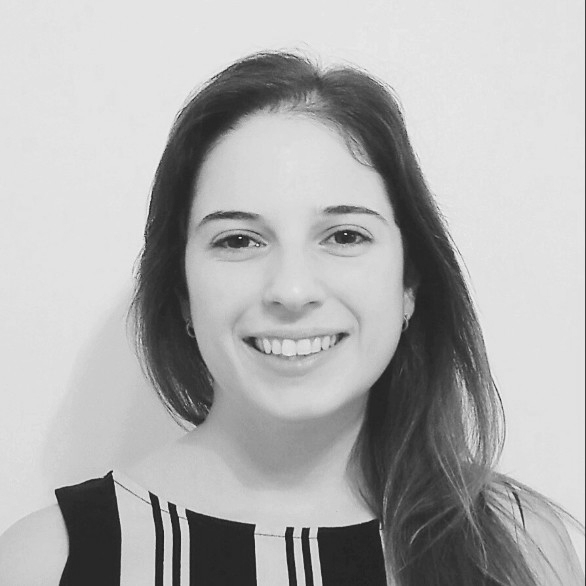
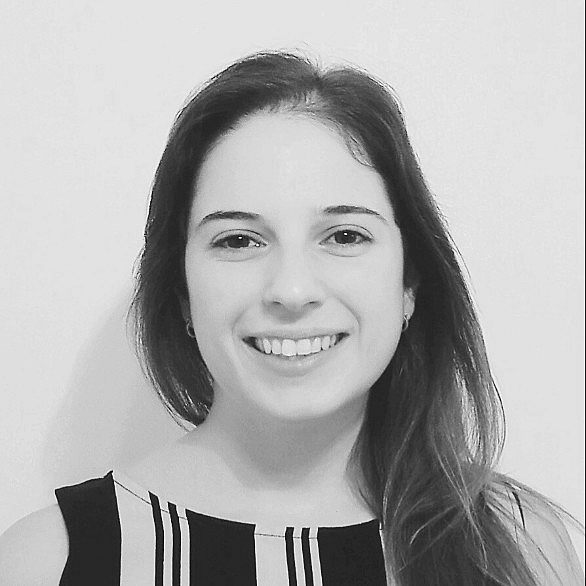
change catherines picture

diff --git a/conferences/3WBDSLAC/speakers.html b/conferences/3WBDSLAC/speakers.html
@@ -116,7 +116,7 @@
                 </li>
                 <li>
                     <figure class="member">
-                        <img src="assets/img/speakers/Catherine_DIgnazio.jpeg" alt="catherine-img" class="speaker-img">
+                        <img src="assets/img/speakers/Catherine_DIgnazio.jpg" alt="catherine-img" class="speaker-img">
                         <img src="assets/img/flags/us.svg" alt="us-img" class="flag-img">
                         <figcapture class="name">Catherine D'Ignazio</figcapture>
                         <figcapture class="filiation">MIT, United States</figcapture>
